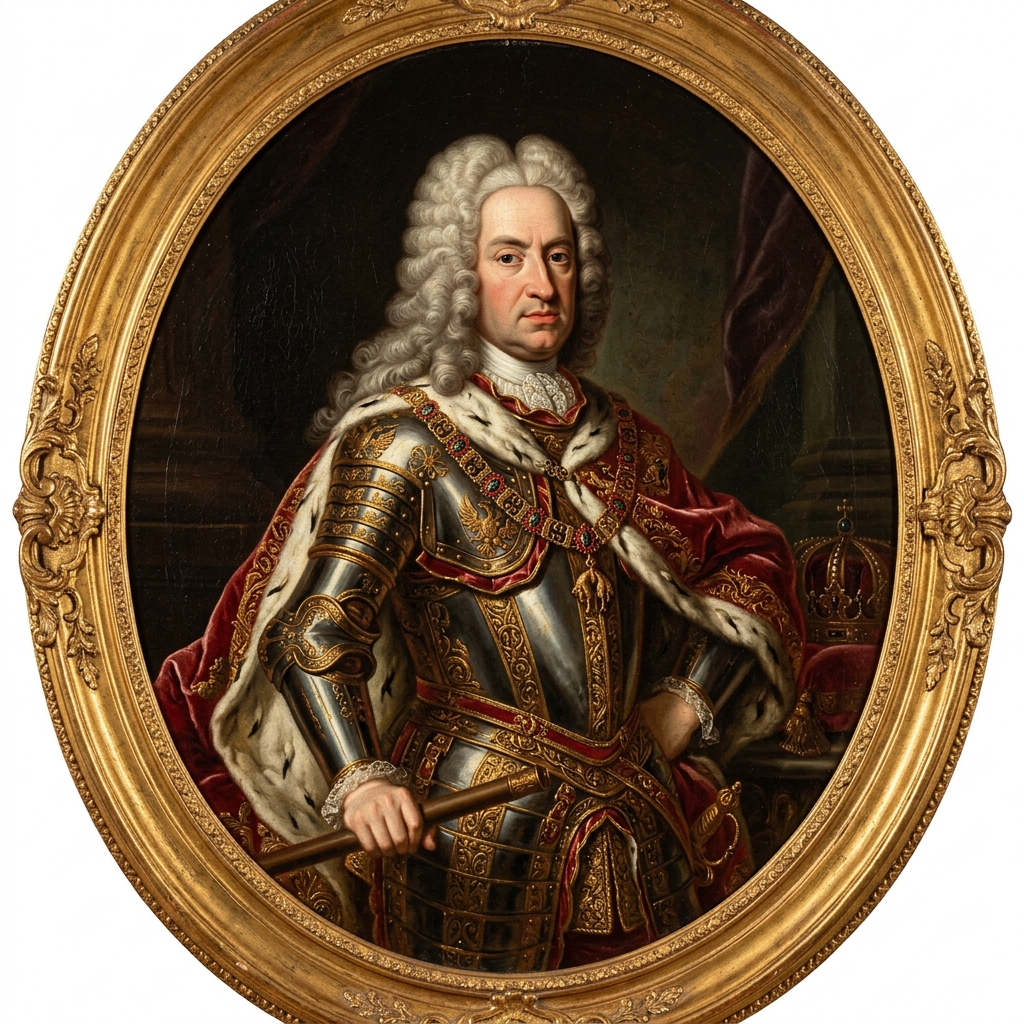
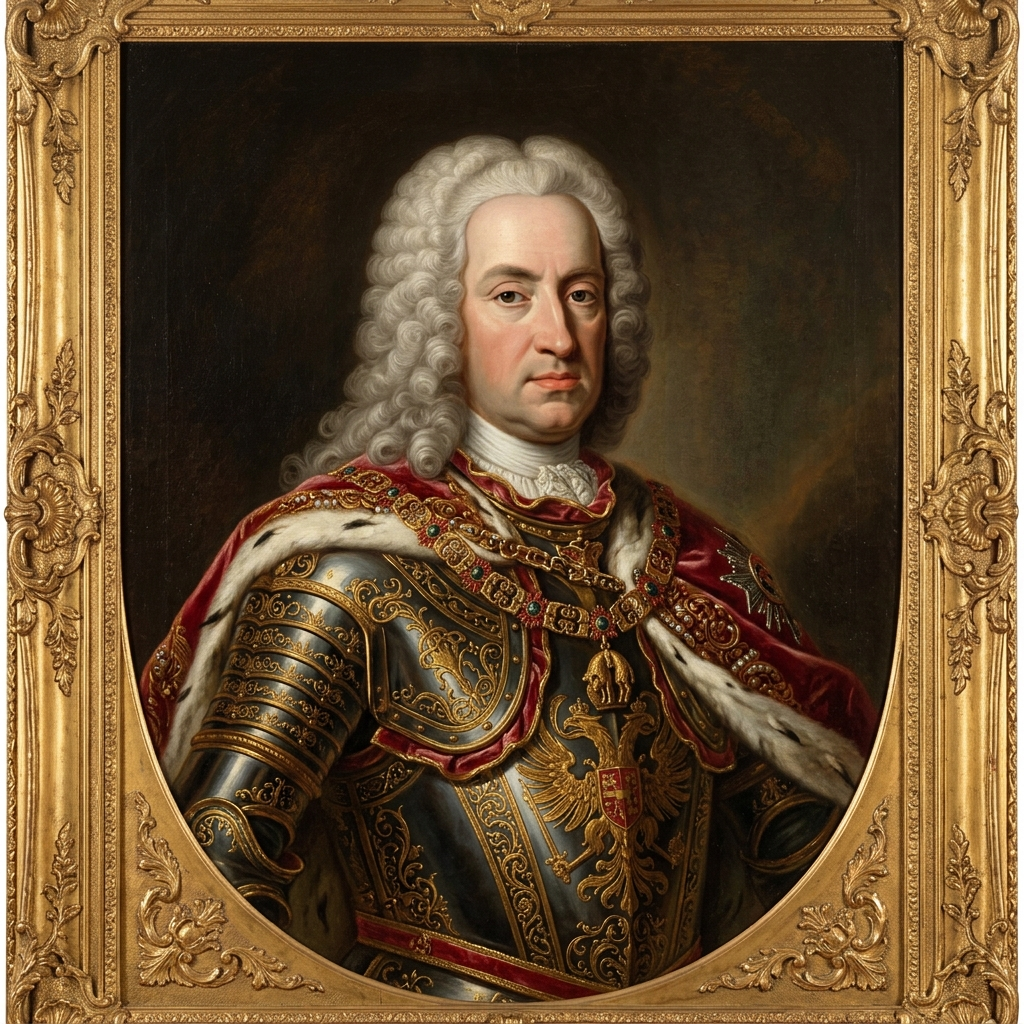
feat: replace 6 ruler portraits with new high-quality museum-style images

diff --git a/src/components/CoinGrid.tsx b/src/components/CoinGrid.tsx
@@ -25,7 +25,7 @@ const RULERS_AH: RulerDef[] = [
 ];
 
 const RULERS_HABSBURG: RulerDef[] = [
-  { id: 'Фердинанд I Габсбург (1526–1564)', name: 'Ferdinand I',   reign: '1526-1564', img: '/rulers/ferdinand_i.png' },
+  { id: 'Фердинанд I Габсбург (1526–1564)', name: 'Ferdinand I',   reign: '1526-1564', img: '/rulers/ferdinand_i_habsburg.png' },
   { id: 'Максиміліан II (1564–1576)',       name: 'Maximilian II', reign: '1564-1576', img: '/rulers/maximilian_ii.png' },
   { id: 'Рудольф II (1576–1612)',           name: 'Rudolf II',     reign: '1576-1612', img: '/rulers/rudolf_ii.png' },
   { id: 'Матіас (1612–1619)',               name: 'Matthias',      reign: '1612-1619', img: '/rulers/matthias.png' },
